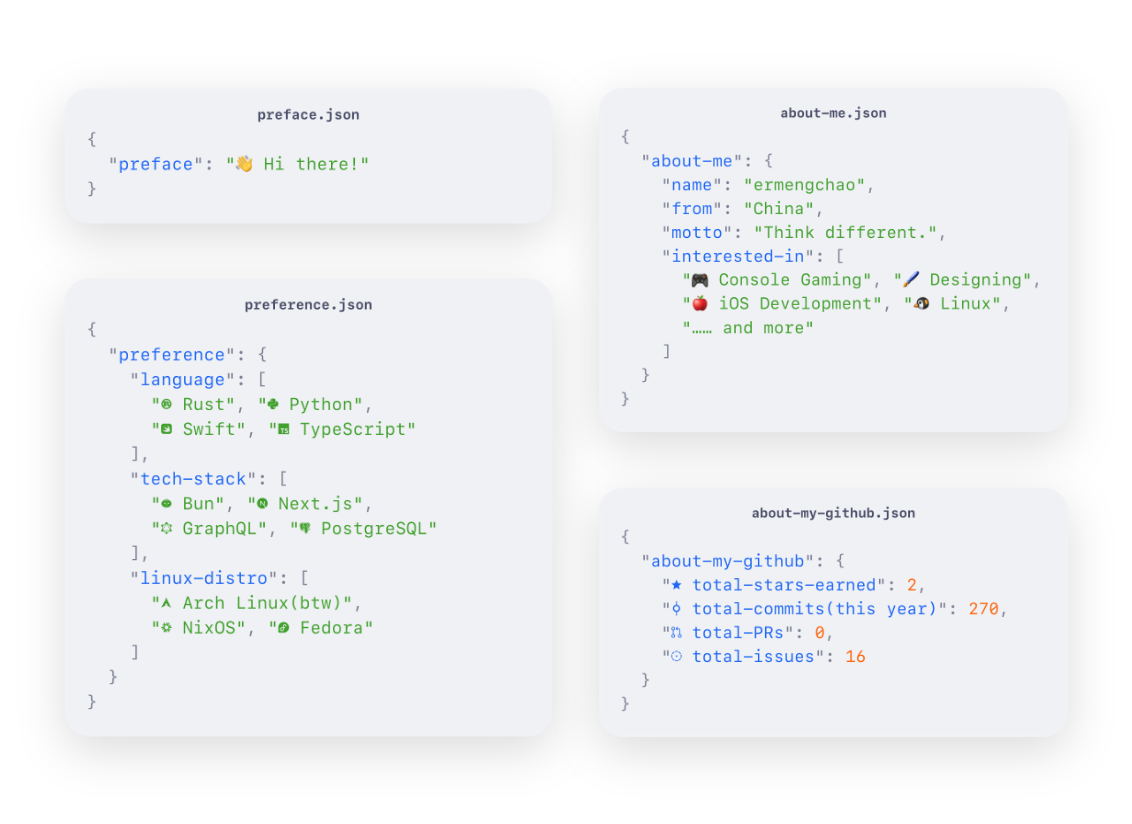
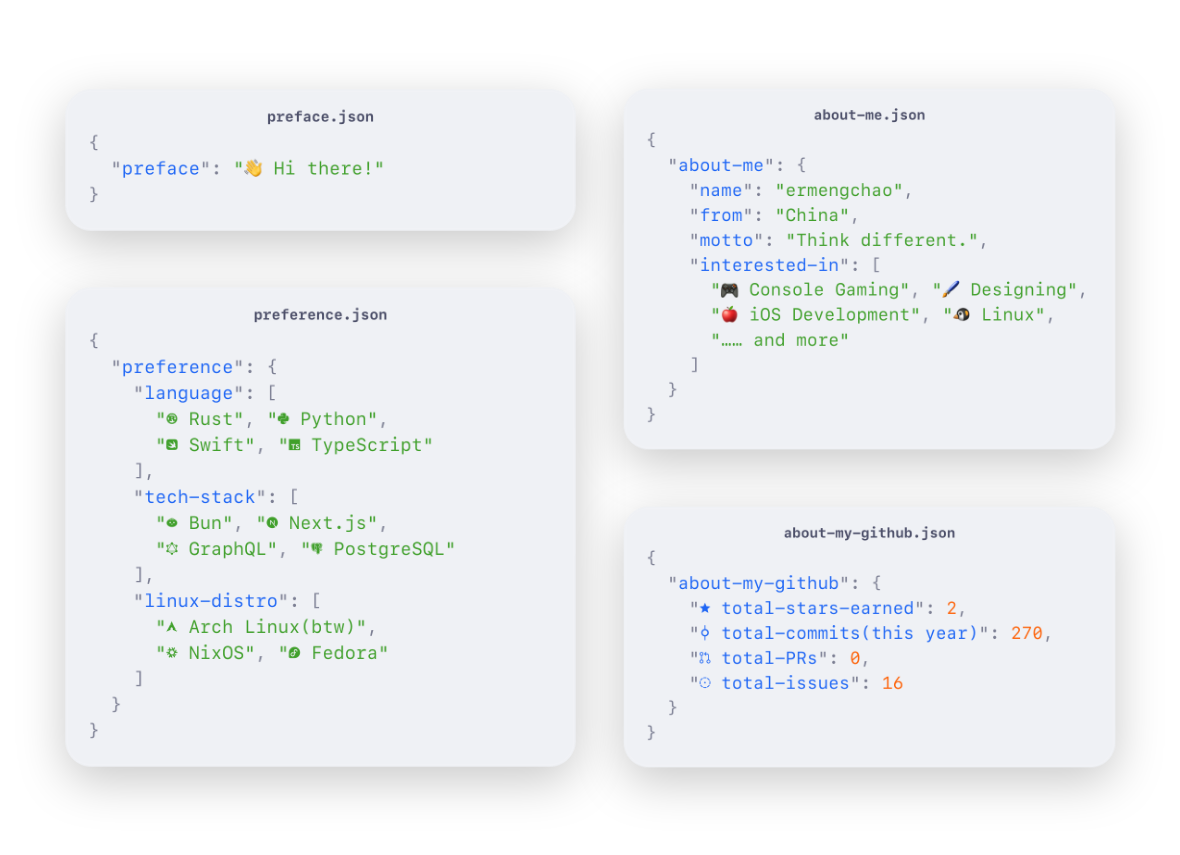
🎨 (profile): tweak background color

diff --git a/README.html b/README.html
@@ -10,7 +10,7 @@
         --page: #ffffff;
         --column-gap: 14px;
         --row-gap: 22px;
-        --card-shadow: 0 14px 24px #00000024;
+        --card-shadow: 0 14px 24px #00000036;
       }
 
       @media (prefers-color-scheme: dark) {
@@ -31,7 +31,7 @@
       }
 
       main {
-        width: min(1180px, calc(100vw - 96px));
+        width: min(1276px, calc(100vw - 48px));
         margin: 0 auto;
         padding: 72px 48px;
       }
